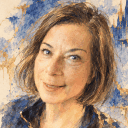
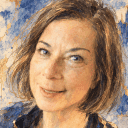
Tighter crops for Deedee and TNB portraits
Claude-Session: https://claude.ai/code/session_01RXeukENCwKJe29WrxGQXMF

diff --git a/engine/menu.js b/engine/menu.js
@@ -9,7 +9,7 @@ const MENU_TABS=[{id:'home',label:'Party'},{id:'items',label:'Items'},{id:'gear'
 // Saving happens from the SAVE button on the map HUD (openSave), which shows just the save popup.
 const PER_CHAR_TABS=['status','gear','stamps'];
 // Character portraits for the roster. Put an image path per id (e.g. tom:'portraits/tom.png?v=4'); empty shows a placeholder.
-const PORTRAITS={tom:'portraits/tom.png?v=11',amy:'portraits/amy.png?v=11',grace:'portraits/grace.png?v=11',deedee:'portraits/deedee.png?v=11',boppy:'portraits/boppy.png?v=11',nara:'portraits/nara.png?v=3',tnb:'portraits/tnb.png?v=11',rose:'portraits/rose.png?v=11'};
+const PORTRAITS={tom:'portraits/tom.png?v=11',amy:'portraits/amy.png?v=11',grace:'portraits/grace.png?v=11',deedee:'portraits/deedee.png?v=12',boppy:'portraits/boppy.png?v=11',nara:'portraits/nara.png?v=3',tnb:'portraits/tnb.png?v=12',rose:'portraits/rose.png?v=11'};
 let playTime=0;
 // Gear (F6): the six battle stats. Tools add POW and WARMTH, Outfits HP, GRIT and COOL, Keepsake Charms have perks.
 const GEAR_KEYS=STAT_NAMES;
